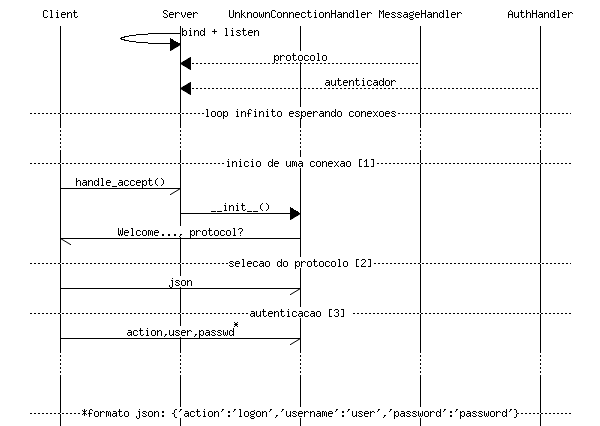
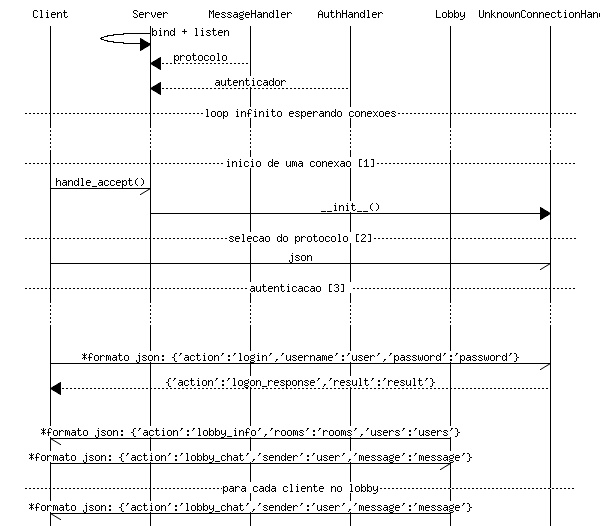
* correções gerais, envio do separador na resposta das mensagens, atualização das tabelas de mensagens, etc etc etc et.

diff --git a/common/client_handler.py b/common/client_handler.py
@@ -56,40 +56,36 @@ class ClientHandler(asyncore.dispatcher):
                 self.shutdown()
                 return
 
-            try:
-                (status, messages, error, rest) = self.message_handler.from_string(data)
-                logging.debug("readed {0} status is {1} error is {3} Rest is [{2}]".format(messages,status,rest,error))
-                assert type(messages) == list
+            (status, messages, error, rest) = self.message_handler.from_string(data)
+            logging.debug("readed {0} status is {1} error is {3} Rest is [{2}]".format(messages,status,rest,error))
+            assert type(messages) == list
 
-                if status == True:
-                    for message in messages:
-                        logging.debug("Callig read_handler {0} to message: {1}".format(self.read_handler, message))
-                        self.read_handler(message)
+            if status == True:
+                for message in messages:
+                    logging.debug("Callig read_handler {0} to message: {1}".format(self.read_handler, message))
+                    self.read_handler(message)
 
-                    if messages:
-                        self.error_count = 0
+                if messages:
+                    self.error_count = 0
 
-                    for e in error:
-                        logging.debug("Replying parsing error to {0}: {1}".format(self.message_handler, e))
-                        self.write(e)
-                        self.error_count += len(error)
+                for e in error:
+                    logging.debug("Replying parsing error to {0}: {1}".format(self.message_handler, e))
+                    self.write(e)
+                    self.error_count += len(error)
 
-                    if self.error_count > 5:
-                        msg = {}
-                        msg["action"] = u'disconnect'
-                        msg["reason"] = u'Too many protocol errors'
+                if self.error_count > 5:
+                    msg = {}
+                    msg["action"] = u'disconnect'
+                    msg["reason"] = u'Too many protocol errors'
 
-                        self.write(msg)
-                        self.shutdown()
+                    self.write(msg)
+                    self.shutdown()
 
-                        return
+                    return
 
-                    self.inbuffer = rest
-                else:
-                    self.inbuffer = self.inbuffer + rest
-            except Exception,e:
-                logging.error("{0}".format(traceback.print_stack()))
-                self.shutdown()
+                self.inbuffer = rest
+            else:
+                self.inbuffer = self.inbuffer + rest
 
     def handle_write(self):
         logging.debug("Handle write: {0}".format(self.obuffer))

diff --git a/server/lobby.py b/server/lobby.py
@@ -12,17 +12,24 @@ class Lobby(broadcastable.Broadcastable):
         self.channels = {}
         self.games = {}
 
-        self.handlers =  { 'chat' : self.handle_chat , 'quit' : self.handle_session_quit }
+        self.handlers =  { 'lobby_chat' : self.handle_chat ,
+                           'lobby_quit' : self.handle_session_quit,
+                           'lobby_create_room' : self.handle_create_room }
         self.start()
 
-    def handle_session_quit(session, message):
+    def handle_session_quit(self, session, message):
         logging.debug("Handling session quit")
 
-        del self.sessions[session.username]
-        msg = { u'action' : 'session_logout', u'username' : session.username }
+        if session.username in self.sessions:
+            del self.sessions[session.username]
+
+        msg = { u'action' : 'lobby_session_logout', u'username' : session.username , u'user_id' : session.user_id }
         self.broadcast({u'session' : 'lobby'} , msg)
 
         session.shutdown()
+
+    def handle_create_room(self, session, message):
+        pass
 
     def add_game(self, name, version, game_builder):
         if name not in self.games:
@@ -47,6 +54,7 @@ class Lobby(broadcastable.Broadcastable):
         for username in self.sessions:
             user_msg = {}
             user_msg[u'username'] = username
+            user_msg[u'user_id'] = self.sessions[username].user_id
             users.append(user_msg)
 
         return users
@@ -66,7 +74,7 @@ class Lobby(broadcastable.Broadcastable):
         session.write(message)
 
         self.add_to_broadcast(session)
-        self.broadcast( { u'session' : 'lobby'} , { u'action' : 'session_logon', u'username' : session.username })
+        self.broadcast( { u'session' : 'lobby'} , { u'action' : 'lobby_session_logon', u'username' : session.username, u'user_id' : session.user_id })
         self.sessions[session.username] = session
 
     def on_session_message(self, session, message):

diff --git a/test/simple_server_tester.py b/test/simple_server_tester.py
@@ -1,0 +1,58 @@
+# -*- coding: utf-8 -*-
+'''
+Created on 25/06/2010
+
+@author: Victor Vicente de Carvalho
+'''
+import sys
+
+sys.path.append('..')
+
+from common.client_handler import ClientHandler
+import socket
+import asyncore
+from common.json_handler import Handler
+import logging
+
+logging.basicConfig(level=logging.INFO, format= '%(asctime)s %(levelname)-8s %(module)-20s[%(lineno)-3d] %(message)s')
+
+class Client(ClientHandler):
+    def __init__(self, socket):        
+        ClientHandler.__init__(self, socket)
+                
+        self.message_handler = Handler("\r\n")
+        self.action_handlers = { "connection_response" : self.handle_connection_response , 'session_logon' : self.handle_session_logon}
+        self.read_handler = self.handle_message
+
+        self.send("json\r\n")
+        
+    def handle_session_logon(self, message):
+        if message['username'] == 'user':
+            self.write({"action" : "lobby_chat" , 'message' : "oi mamae"})
+            
+    def handle_connection_response(self, message): 
+        self.write({"action" : "login", "username" : "user", "password" : "123456"})
+    
+    def write(self, message):
+        ClientHandler.write(self, self.message_handler.to_string(message))
+        
+    def handle_connect(self):
+        print "connected!"
+        self.send("json\r\n")
+    
+    def handle_message(self, message):
+        logging.debug("handle_message: {0}".format(message))
+        if message['action'] in self.action_handlers:            
+            self.action_handlers[message['action']](message)
+        else:
+            logging.info("Unhandled message: {0}".format(message))
+            
+if __name__ == "__main__":
+    sock = socket.socket(socket.AF_INET, socket.SOCK_STREAM)
+    sock.connect((sys.argv[1],5000))
+    cli = Client(sock)
+    
+    try:
+        asyncore.loop(timeout=1.0)
+    except KeyboardInterrupt:
+        cli.close()

diff --git a/common/json_handler.py b/common/json_handler.py
@@ -18,12 +18,12 @@ import json
 import logging
 
 class Handler(object):
-    
+
     NAME = 'json'
-    
+
     def __init__(self, separator = '\r\n'):
         self.separator = separator
-        
+
     def from_string(self, raw_message):
         ''' Basic reader. Searches for endlines, strip unused character's and tries to parse them as json objects '''
         assert type(raw_message) == str
@@ -47,7 +47,7 @@ class Handler(object):
                 logging.debug("index is {0}, r_index is {1}".format(index, r_index))
             except Exception, e:
                 logging.debug("Error processing input: {0}".format(e))
-                errors.append({ u"action" : u"error" , u"reason" : u"Malformed input", u'raw_text' : message })    
+                errors.append({ u"action" : u"error" , u"reason" : u"Malformed input", u'raw_text' : message })
                 break
 
         logging.debug("raw message length: {0}, output {1} errors {2} raw_message {3}".format(len(raw_message),output, errors, raw_message))
@@ -56,6 +56,6 @@ class Handler(object):
     def to_string(self, message):
         logging.debug("Trying to decode input of type {1} : {0}".format(message, type(message)))
         try:
-            return json.dumps(message)
+            return json.dumps(message) + self.separator
         except e:
             logging.debug("Error processing output: {0}".format(e))

diff --git a/server/game.py b/server/game.py
@@ -13,20 +13,17 @@
 #
 #    You should have received a copy of the GNU General Public License
 #    along with corvogame.  If not, see <http://www.gnu.org/licenses/>.
-from json_handler import Handler
-import logging
 
-class WebsocketHandler(Handler):
-    NAME = 'json_websocket'
+class Game:
+    VERSION = 0.0.0
+    NAME= "NOT_SPECIFIED"
+    MAX_PLAYERS = 6
 
-    def __init__(self):
-        Handler.__init__(self, '\xff')
+    def start(self):
+        pass
 
-    def from_string(self, raw_message):
-        raw_message= raw_message[1:]
-        logging.debug("Raw message is {0}".format(raw_message))
-        Handler.from_string(self, raw_message)
+    def stop(self):
+        pass
 
-    def to_string(self, message):
-        encoded_msg = Handler.to_string(self, message)
-        return '\x00' + encoded_msg.encode('utf-8')
+    def register_session(self, session):
+        pass

diff --git a/server/broadcastable.py b/server/broadcastable.py
@@ -1,4 +1,19 @@
 # -*- coding: utf-8 -*-
+#    This file is part of corvogame.
+#
+#    corvogame is free software: you can redistribute it and/or modify
+#    it under the terms of the GNU General Public License as published by
+#    the Free Software Foundation, either version 3 of the License, or
+#    (at your option) any later version.
+#
+#    corvogame is distributed in the hope that it will be useful,
+#    but WITHOUT ANY WARRANTY; without even the implied warranty of
+#    MERCHANTABILITY or FITNESS FOR A PARTICULAR PURPOSE.  See the
+#    GNU General Public License for more details.
+#
+#    You should have received a copy of the GNU General Public License
+#    along with corvogame.  If not, see <http://www.gnu.org/licenses/>.
+
 import threading
 import Queue
 import logging

diff --git a/server/session.py b/server/session.py
@@ -16,6 +16,7 @@
 
 from common.client_handler import ClientHandler
 import logging
+import uuid
 
 class Session(ClientHandler):
     def __init__(self, unknown_connection):
@@ -25,6 +26,7 @@ class Session(ClientHandler):
         self.message_handler = unknown_connection.message_handler
         self.read_handler = self.handle_session_messages
         self.incoming_message_handler = None
+        self.user_id = uuid.uuid1().get_hex()
         self.close_handler = None
 
     def handle_session_messages(self, message):
